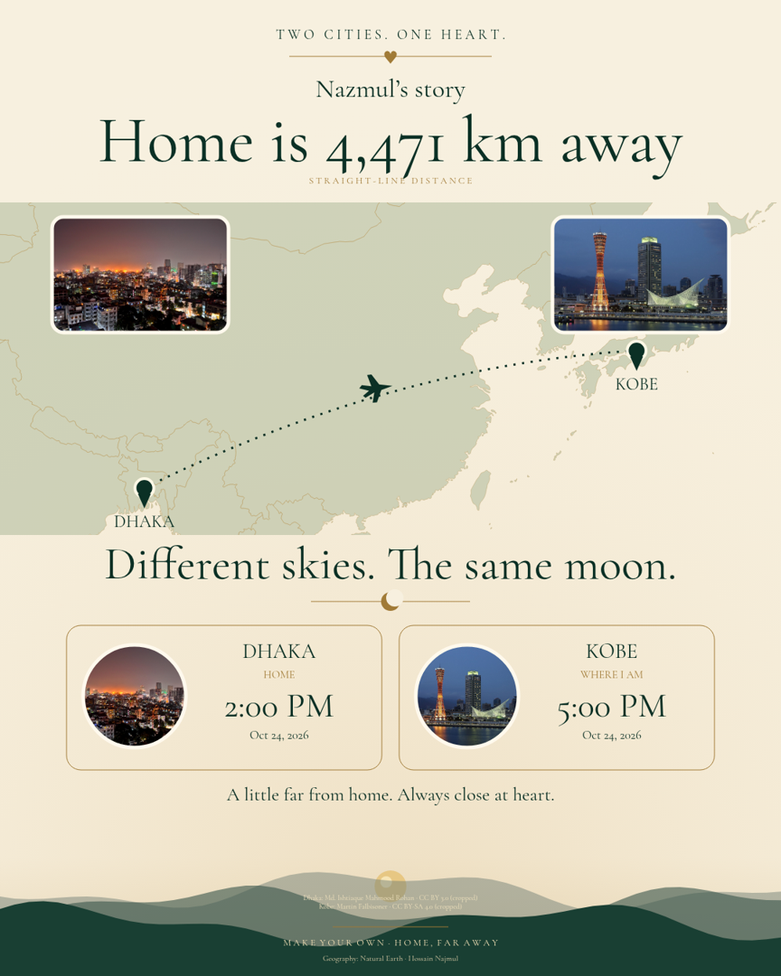
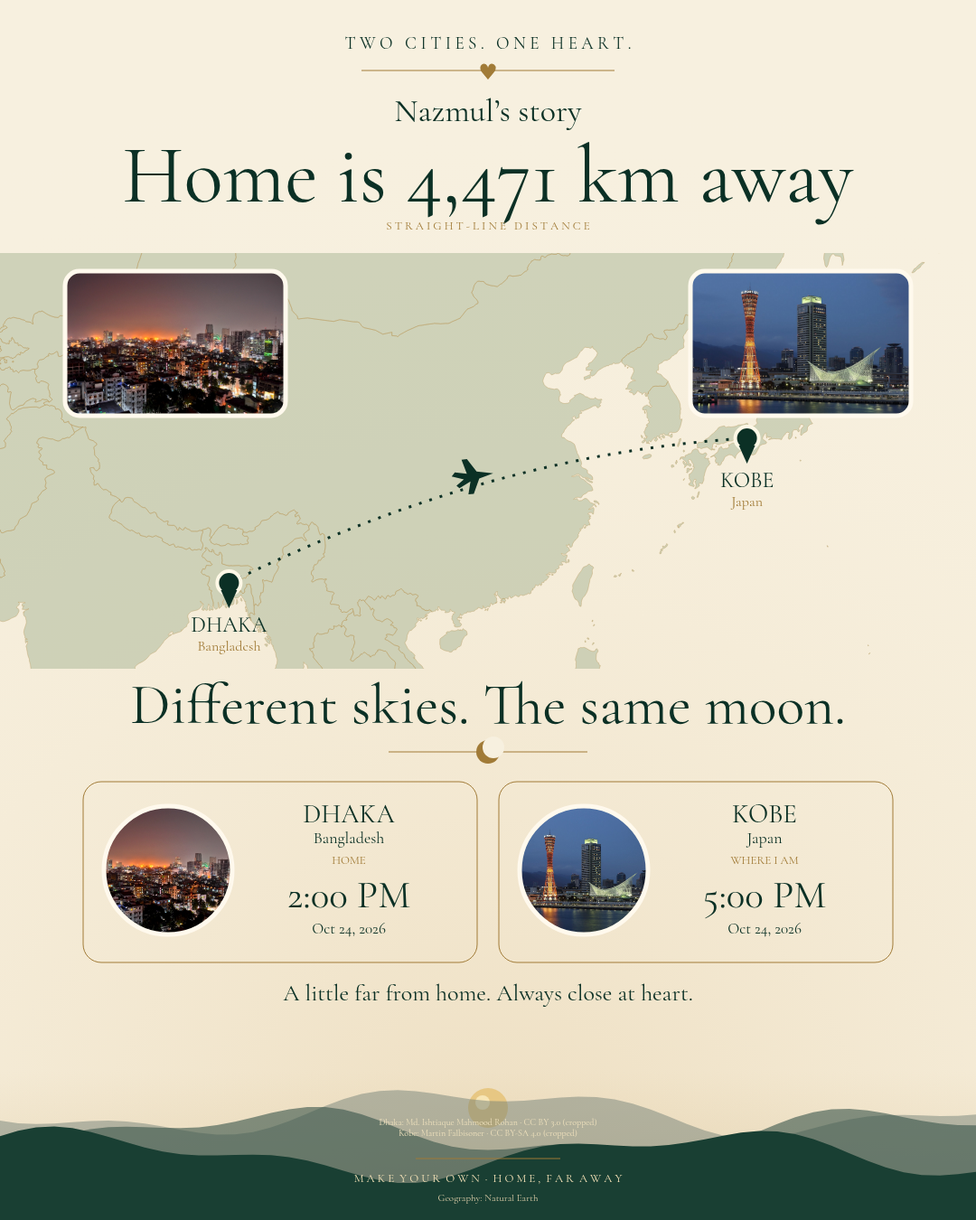
Remove owner branding and simplify default advertising preferences

diff --git a/src/main.tsx b/src/main.tsx
@@ -62,6 +62,6 @@ function App(){const [s,S]=useState<Settings>(restore),[photos,P]=useState<(Phot
  async function exportImage(share=false){B(true);E('');Status('Preparing your keepsake…');try{const out=document.createElement('canvas');await drawPoster(out,s,photos,quality,clock);const blob=await new Promise<Blob>((resolve,reject)=>out.toBlob(b=>b?resolve(b):reject(Error('Image export failed.')), 'image/png'));const url=URL.createObjectURL(blob);U(url);const file=new File([blob],'home-far-away.png',{type:'image/png'});if(share&&navigator.canShare?.({files:[file]})){try{await navigator.share({files:[file],title:'Home, Far Away'});Status('Image shared.');}catch(e){Status((e as DOMException).name==='AbortError'?'Sharing cancelled. Your image is ready below.':'Sharing unavailable. Save the image below.');}}else if(share){Status('Your image is ready below. On iPhone, touch and hold it to save.');}else{const a=document.createElement('a');a.href=url;a.download='home-far-away.png';a.click();Status('PNG ready. If the download did not open, save the image below.');}}catch(e){E((e as Error).message||'Export failed. Please try again.');Status('');}finally{B(false);}}
  async function copyLink(){try{const data={unit:s.unit,format:s.format,theme:s.theme,...(linkLocation?{cities:s.cities}:{})};const url=`${location.origin}${location.pathname}#${new URLSearchParams({route:JSON.stringify(data)})}`;await navigator.clipboard.writeText(url);Status(linkLocation?'Link copied with your two cities. Name, quote and photos excluded.':'Style link copied. Cities, name, quote and photos excluded.');}catch{E('Clipboard unavailable. Use your browser’s address bar to copy the current page.');}}
  function reset(){if(location.hash.includes('route='))history.replaceState(null,'',location.pathname+location.search+'#editor');S(initial);P(defaults.map(curated));U('');E('');Status('Fresh start. Personal uploads cleared; licensed sample photos restored.');try{localStorage.removeItem('hfa-draft');}catch{}}
- return <MotionConfig reducedMotion="user"><header className="nav"><a href="#" className="brand"><span className="brand-icon">✳</span>Home, Far Away</a><span className="nav-note">YOUR WORLD. BEAUTIFULLY CONNECTED.</span><a href="#editor" className="nav-link">Create your story <span>↗</span></a></header><main><section className="hero"><BlurFade duration={.7} offset={10}><p className="eyebrow"><span/> FOR EVERY KIND OF FAR FROM HOME</p><h1 aria-label="Two places. One beautiful story.">Two places.<br/>One <span className="word-window" aria-hidden="true"><FlipWords words={['beautiful story.','little keepsake.','piece of home.']} duration={4000}/></span></h1><p className="hero-copy">The city you carry. The city you’re becoming.<br/>Bring them together in a poster that feels like you.</p><a className="hero-cta" href="#editor">Create my poster <span>↗</span></a><p className="hero-footnote">No account needed <span>·</span> Made for anywhere in the world</p></BlurFade><div className="hero-art" aria-label="Example personalized travel poster"><div className="art-orbit"/><img className="hero-sample" src="./social.png" alt="Example of a personalized ivory travel poster connecting Dhaka and Kobe"/><div className="memory-card"><img src="./assets/kobe.jpg" alt="Kobe harbour by Martin Falbisoner, CC BY-SA 4.0"/><span>Wish you were here.</span></div><div className="art-note">A little distance.<br/><em>A lot of love.</em></div><span className="art-label">YOUR CITIES, TURNED INTO ART</span></div></section><div className="studio-intro"><div><span className="eyebrow">MADE BY YOU, FOR YOU</span><h2>A small story. A whole world.</h2></div><p>Choose your places. Add a little of yourself.<br/>We’ll bring it all together.</p></div><section id="editor" className="editor"><aside className="panel"><div className="panel-title"><p className="eyebrow">THE CREATIVE STUDIO</p><h2>The poster atelier.</h2><p>Your story, one thoughtful detail at a time.</p></div><div className="tabs" role="tablist" aria-label="Poster editor">{['places','story','photos','details'].map((t,i)=><button key={t} id={`tab-${t}`} role="tab" aria-selected={tab===t} aria-controls="editor-content" onClick={()=>Tab(t)} onKeyDown={e=>{const steps=['places','story','photos','details'];let next=i;if(e.key==='ArrowRight')next=(i+1)%steps.length;else if(e.key==='ArrowLeft')next=(i+steps.length-1)%steps.length;else if(e.key==='Home')next=0;else if(e.key==='End')next=steps.length-1;else return;e.preventDefault();Tab(steps[next]);document.getElementById('tab-'+steps[next])?.focus();}}><span className="step-index">{String(i+1).padStart(2,'0')}</span> {t==='details'?'Export':t==='story'?'Personal':t}</button>)}</div><div role="tabpanel" id="editor-content" aria-labelledby={`tab-${tab}`} className="fields scroll-fade-y">{tab==='places'&&<><div className="editor-guide"><span>01 / YOUR TWO PLACES</span><h3>Where does your heart live?</h3><p>Pick any two countries and cities. The preview starts with an example.</p></div><div className="city-pair"><CitySearch label="01 / HOME" city={s.cities[0]} onChange={c=>{change({cities:[c,s.cities[1]]});P(v=>[curated(c),v[1]]);}}/><button className="swap" aria-label="Swap home and current cities" onClick={()=>{change({cities:[s.cities[1],s.cities[0]]});P(v=>[v[1],v[0]]);}}>⇅</button><CitySearch label="02 / WHERE I AM" city={s.cities[1]} onChange={c=>{change({cities:[s.cities[0],c]});P(v=>[v[0],curated(c)]);}}/></div><details className="journey-picker"><summary>Need inspiration? Try a journey ↗</summary><WorldJourneys onSelect={cities=>{change({cities});P(cities.map(curated));}} onError={E}/></details><button className="primary w-full" onClick={()=>Tab('story')}>Make it personal →</button></>}{tab==='story'&&<><div className="editor-guide"><span>02 / A LITTLE OF YOU</span><h3>Put your heart into words.</h3></div><label>Your name<input maxLength={60} value={s.name} onChange={e=>change({name:e.target.value})} placeholder="Your name"/></label><label>A few words from the heart<textarea rows={3} maxLength={200} value={s.quote} onChange={e=>change({quote:e.target.value})}/><span className="counter">{s.quote.length} / 200</span></label><button className="secondary w-full" onClick={()=>Tab('photos')}>Add your memories <span>→</span></button></>}{tab==='photos'&&<><p className="hint">Your photos make it personal. Without photos, we use clearly illustrated place cards.</p>{s.cities.map((c,i)=><Photos key={i} city={c} photo={photos[i]} onChange={p=>P(v=>v.map((old,j)=>j===i?p:old))} onError={E}/>)}<button className="primary w-full" onClick={()=>Tab('details')}>Choose format & export →</button></>}{tab==='details'&&<><label>Poster format<select value={s.format} onChange={e=>change({format:e.target.value as Settings['format']})}><option value="post">Portrait post · 1080 × 1350</option><option value="story">Full story · 1080 × 1920</option></select></label><label>Distance unit<select value={s.unit} onChange={e=>change({unit:e.target.value as Settings['unit']})}><option value="km">Kilometers</option><option value="mi">Miles</option></select></label><label>Paper tone<select value={s.theme} onChange={e=>change({theme:e.target.value as Settings['theme']})}><option value="ivory">Warm ivory</option><option value="sage">Soft sage</option></select></label><label>Export quality<select value={quality} onChange={e=>Q(+e.target.value)}><option value={1}>Original · 1080 px wide</option><option value={2}>High resolution · 2160 px wide</option></select></label><div className="privacy-box"><b>A private little keepsake.</b><p>No login. Uploaded photos stay in your browser and are never published. Settings save on this device; photos clear on reload.</p><p>City searches go to Open-Meteo. Photo searches and selected images use Wikimedia Commons. The map, fonts and time-zone lookup are served locally.</p></div><label className="check"><input type="checkbox" checked={linkLocation} onChange={e=>LL(e.target.checked)}/>Include my two cities in the shared link</label><button className="secondary w-full" onClick={copyLink}>Copy a shareable style link ↗</button><button className="text-button" onClick={reset}>Reset poster & local draft</button></>}</div><div className="panel-footer"><span className="status-dot"/>{storage}</div></aside><div className="preview-area"><div className="route-ribbon"><span>YOUR LIVE COMPOSITION</span><b>{s.cities[0].name} <i>↔</i> {s.cities[1].name}</b></div><div className="preview-top"><span><i/> LIVE PREVIEW</span><div className="format-toggle"><button aria-pressed={s.format==='post'} onClick={()=>change({format:'post'})}>Post</button><button aria-pressed={s.format==='story'} onClick={()=>change({format:'story'})}>Story</button></div></div><div className="poster-frame"><canvas ref={canvas} className="poster" aria-label={`Travel poster connecting ${s.cities[0].name} and ${s.cities[1].name}`}/>{!ready&&!error&&<span className="rendering">Composing your story…</span>}</div><div className="preview-caption"><span>✧ A LITTLE DISTANCE. A LOT OF LOVE.</span><small>{s.format==='post'?'1080 × 1350':'1080 × 1920'} · PNG</small></div><div className="export-bar"><div><b>Ready to take it with you?</b><p>Ready for your phone, your wall, your people.</p></div><div className="export-actions"><button className="secondary" disabled={!ready||busy} onClick={()=>exportImage(true)} aria-label="Save or share image to phone">Share ↗</button><button className="primary" disabled={!ready||busy} onClick={()=>exportImage()}>{busy?'Preparing…':'Download poster ↓'}</button></div></div><div role="status" className="notice">{status}</div>{error&&<div role="alert" className="error">{error}<button onClick={()=>C(new Date())}>Retry</button></div>}{exportUrl&&<details className="export-fallback" open><summary>Your exported image · tap to preview or save</summary><a href={exportUrl} download="home-far-away.png">Download PNG</a><p>iPhone: touch and hold the image, then choose Save to Photos.</p><img src={exportUrl} alt="Your exported personalized travel poster"/></details>}</div></section><div id="advertising-area"/><section className="closing"><span>✧</span><p>Some places become part of you.<br/><em>Take them with you.</em></p></section></main><footer><a className="brand" href="#">Home, Far Away</a><span>Made with heart, by Hossain Najmul.<br/><a href="./privacy.html">Privacy notice</a> · <AdPreferences/></span><details><summary>Sources, credits & privacy</summary><p>Scroll fade adapted from <a href="https://skiper-ui.com/v1/skiper87" target="_blank" rel="noreferrer">Skiper UI</a>. Word animation by <a href="https://ui.aceternity.com/components/flip-words" target="_blank" rel="noreferrer">Aceternity UI</a>.</p><p>City data: Open-Meteo / GeoNames (CC BY 4.0). Geography: Natural Earth public domain. Fonts: Cormorant Garamond and Noto Serif Bengali (SIL OFL). Wikimedia photos retain their individual licenses and credits, shown in the photo editor. Optional Google AdSense may load after you allow ads. Manage this using Ad privacy choices.</p><p>Local times use IANA zones. Distance is the great-circle distance between selected coordinates. A shared link excludes names, quotes and photos. Cities are included only with your explicit checkbox.</p></details></footer></MotionConfig>;
+ return <MotionConfig reducedMotion="user"><header className="nav"><a href="#" className="brand"><span className="brand-icon">✳</span>Home, Far Away</a><span className="nav-note">YOUR WORLD. BEAUTIFULLY CONNECTED.</span><a href="#editor" className="nav-link">Create your story <span>↗</span></a></header><main><section className="hero"><BlurFade duration={.7} offset={10}><p className="eyebrow"><span/> FOR EVERY KIND OF FAR FROM HOME</p><h1 aria-label="Two places. One beautiful story.">Two places.<br/>One <span className="word-window" aria-hidden="true"><FlipWords words={['beautiful story.','little keepsake.','piece of home.']} duration={4000}/></span></h1><p className="hero-copy">The city you carry. The city you’re becoming.<br/>Bring them together in a poster that feels like you.</p><a className="hero-cta" href="#editor">Create my poster <span>↗</span></a><p className="hero-footnote">No account needed <span>·</span> Made for anywhere in the world</p></BlurFade><div className="hero-art" aria-label="Example personalized travel poster"><div className="art-orbit"/><img className="hero-sample" src="./social.png" alt="Example of a personalized ivory travel poster connecting Dhaka and Kobe"/><div className="memory-card"><img src="./assets/kobe.jpg" alt="Kobe harbour by Martin Falbisoner, CC BY-SA 4.0"/><span>Wish you were here.</span></div><div className="art-note">A little distance.<br/><em>A lot of love.</em></div><span className="art-label">YOUR CITIES, TURNED INTO ART</span></div></section><div className="studio-intro"><div><span className="eyebrow">MADE BY YOU, FOR YOU</span><h2>A small story. A whole world.</h2></div><p>Choose your places. Add a little of yourself.<br/>We’ll bring it all together.</p></div><section id="editor" className="editor"><aside className="panel"><div className="panel-title"><p className="eyebrow">THE CREATIVE STUDIO</p><h2>The poster atelier.</h2><p>Your story, one thoughtful detail at a time.</p></div><div className="tabs" role="tablist" aria-label="Poster editor">{['places','story','photos','details'].map((t,i)=><button key={t} id={`tab-${t}`} role="tab" aria-selected={tab===t} aria-controls="editor-content" onClick={()=>Tab(t)} onKeyDown={e=>{const steps=['places','story','photos','details'];let next=i;if(e.key==='ArrowRight')next=(i+1)%steps.length;else if(e.key==='ArrowLeft')next=(i+steps.length-1)%steps.length;else if(e.key==='Home')next=0;else if(e.key==='End')next=steps.length-1;else return;e.preventDefault();Tab(steps[next]);document.getElementById('tab-'+steps[next])?.focus();}}><span className="step-index">{String(i+1).padStart(2,'0')}</span> {t==='details'?'Export':t==='story'?'Personal':t}</button>)}</div><div role="tabpanel" id="editor-content" aria-labelledby={`tab-${tab}`} className="fields scroll-fade-y">{tab==='places'&&<><div className="editor-guide"><span>01 / YOUR TWO PLACES</span><h3>Where does your heart live?</h3><p>Pick any two countries and cities. The preview starts with an example.</p></div><div className="city-pair"><CitySearch label="01 / HOME" city={s.cities[0]} onChange={c=>{change({cities:[c,s.cities[1]]});P(v=>[curated(c),v[1]]);}}/><button className="swap" aria-label="Swap home and current cities" onClick={()=>{change({cities:[s.cities[1],s.cities[0]]});P(v=>[v[1],v[0]]);}}>⇅</button><CitySearch label="02 / WHERE I AM" city={s.cities[1]} onChange={c=>{change({cities:[s.cities[0],c]});P(v=>[v[0],curated(c)]);}}/></div><details className="journey-picker"><summary>Need inspiration? Try a journey ↗</summary><WorldJourneys onSelect={cities=>{change({cities});P(cities.map(curated));}} onError={E}/></details><button className="primary w-full" onClick={()=>Tab('story')}>Make it personal →</button></>}{tab==='story'&&<><div className="editor-guide"><span>02 / A LITTLE OF YOU</span><h3>Put your heart into words.</h3></div><label>Your name<input maxLength={60} value={s.name} onChange={e=>change({name:e.target.value})} placeholder="Your name"/></label><label>A few words from the heart<textarea rows={3} maxLength={200} value={s.quote} onChange={e=>change({quote:e.target.value})}/><span className="counter">{s.quote.length} / 200</span></label><button className="secondary w-full" onClick={()=>Tab('photos')}>Add your memories <span>→</span></button></>}{tab==='photos'&&<><p className="hint">Your photos make it personal. Without photos, we use clearly illustrated place cards.</p>{s.cities.map((c,i)=><Photos key={i} city={c} photo={photos[i]} onChange={p=>P(v=>v.map((old,j)=>j===i?p:old))} onError={E}/>)}<button className="primary w-full" onClick={()=>Tab('details')}>Choose format & export →</button></>}{tab==='details'&&<><label>Poster format<select value={s.format} onChange={e=>change({format:e.target.value as Settings['format']})}><option value="post">Portrait post · 1080 × 1350</option><option value="story">Full story · 1080 × 1920</option></select></label><label>Distance unit<select value={s.unit} onChange={e=>change({unit:e.target.value as Settings['unit']})}><option value="km">Kilometers</option><option value="mi">Miles</option></select></label><label>Paper tone<select value={s.theme} onChange={e=>change({theme:e.target.value as Settings['theme']})}><option value="ivory">Warm ivory</option><option value="sage">Soft sage</option></select></label><label>Export quality<select value={quality} onChange={e=>Q(+e.target.value)}><option value={1}>Original · 1080 px wide</option><option value={2}>High resolution · 2160 px wide</option></select></label><div className="privacy-box"><b>A private little keepsake.</b><p>No login. Uploaded photos stay in your browser and are never published. Settings save on this device; photos clear on reload.</p><p>City searches go to Open-Meteo. Photo searches and selected images use Wikimedia Commons. The map, fonts and time-zone lookup are served locally.</p></div><label className="check"><input type="checkbox" checked={linkLocation} onChange={e=>LL(e.target.checked)}/>Include my two cities in the shared link</label><button className="secondary w-full" onClick={copyLink}>Copy a shareable style link ↗</button><button className="text-button" onClick={reset}>Reset poster & local draft</button></>}</div><div className="panel-footer"><span className="status-dot"/>{storage}</div></aside><div className="preview-area"><div className="route-ribbon"><span>YOUR LIVE COMPOSITION</span><b>{s.cities[0].name} <i>↔</i> {s.cities[1].name}</b></div><div className="preview-top"><span><i/> LIVE PREVIEW</span><div className="format-toggle"><button aria-pressed={s.format==='post'} onClick={()=>change({format:'post'})}>Post</button><button aria-pressed={s.format==='story'} onClick={()=>change({format:'story'})}>Story</button></div></div><div className="poster-frame"><canvas ref={canvas} className="poster" aria-label={`Travel poster connecting ${s.cities[0].name} and ${s.cities[1].name}`}/>{!ready&&!error&&<span className="rendering">Composing your story…</span>}</div><div className="preview-caption"><span>✧ A LITTLE DISTANCE. A LOT OF LOVE.</span><small>{s.format==='post'?'1080 × 1350':'1080 × 1920'} · PNG</small></div><div className="export-bar"><div><b>Ready to take it with you?</b><p>Ready for your phone, your wall, your people.</p></div><div className="export-actions"><button className="secondary" disabled={!ready||busy} onClick={()=>exportImage(true)} aria-label="Save or share image to phone">Share ↗</button><button className="primary" disabled={!ready||busy} onClick={()=>exportImage()}>{busy?'Preparing…':'Download poster ↓'}</button></div></div><div role="status" className="notice">{status}</div>{error&&<div role="alert" className="error">{error}<button onClick={()=>C(new Date())}>Retry</button></div>}{exportUrl&&<details className="export-fallback" open><summary>Your exported image · tap to preview or save</summary><a href={exportUrl} download="home-far-away.png">Download PNG</a><p>iPhone: touch and hold the image, then choose Save to Photos.</p><img src={exportUrl} alt="Your exported personalized travel poster"/></details>}</div></section><div id="advertising-area"/><section className="closing"><span>✧</span><p>Some places become part of you.<br/><em>Take them with you.</em></p></section></main><footer><a className="brand" href="#">Home, Far Away</a><span>Made for the places you love.<br/><a href="./privacy.html">Privacy notice</a> · <AdPreferences/></span><details><summary>Sources, credits & privacy</summary><p>Scroll fade adapted from <a href="https://skiper-ui.com/v1/skiper87" target="_blank" rel="noreferrer">Skiper UI</a>. Word animation by <a href="https://ui.aceternity.com/components/flip-words" target="_blank" rel="noreferrer">Aceternity UI</a>.</p><p>City data: Open-Meteo / GeoNames (CC BY 4.0). Geography: Natural Earth public domain. Fonts: Cormorant Garamond and Noto Serif Bengali (SIL OFL). Wikimedia photos retain their individual licenses and credits, shown in the photo editor. Google AdSense supports this studio. Manage your preference using Ad privacy choices.</p><p>Local times use IANA zones. Distance is the great-circle distance between selected coordinates. A shared link excludes names, quotes and photos. Cities are included only with your explicit checkbox.</p></details></footer></MotionConfig>;
 }
 createRoot(document.getElementById('root')!).render(<App/>);

diff --git a/public/privacy.html b/public/privacy.html
@@ -1,1 +1,1 @@
-<!doctype html><html lang="en"><head><meta charset="utf-8"><meta name="viewport" content="width=device-width, initial-scale=1"><meta name="robots" content="index,follow"><title>Privacy — Home, Far Away</title><style>body{font:16px/1.9 system-ui,sans-serif;max-width:760px;padding:50px 24px;margin:auto;background:#f4f1e9;color:#344b38}h1,h2{line-height:1.2;color:#2f5a42}h2{font-size:23px;margin-top:38px}a{color:#ae6b49}small{color:#879579}</style></head><body><a href="./">← Back to the poster studio</a><h1>Your memories, your choices.</h1><small>Home, Far Away · Hossain Najmul · Updated 24 October 2026</small><p>This notice explains the data used by our browser-based travel poster studio.</p><h2>Posters and uploads</h2><p>Names, quotes and selected places are processed in your browser. Uploaded photos are resized and cropped locally; this app does not upload them to a server. Draft settings are stored using localStorage; uploaded photos are not included in saved drafts. Clear a draft with Reset poster &amp; local draft. Share links exclude names, quotes and uploaded photos. City locations are included only when you enable the city-sharing option.</p><h2>City search and public photographs</h2><p>City searches are sent to Open-Meteo and use GeoNames data. Searching for photographs sends the selected city or map-pin coordinates to Wikimedia Commons. Selecting an external image downloads it from Wikimedia. These providers receive ordinary request information, such as your IP address. The geographic map, fonts and time-zone lookup are hosted with the site.</p><h2>Optional Google advertising</h2><p>Google AdSense is integrated using publisher ca-pub-3728341118830943. Advertising code is loaded only if you choose Allow ads. You may use the core poster tools without allowing advertising. Google and its partners may use cookies or similar identifiers and process device, IP and interaction data to serve, prevent fraud and measure advertising. We request non-personalized advertising; regional eligibility and consent requirements still apply. Google may show its own consent message. Serving ads also depends on Google approving the site.</p><p>Google explains its processing at <a href="https://policies.google.com/technologies/partner-sites">How Google uses information from sites or apps that use its services</a> and its <a href="https://policies.google.com/privacy">Privacy Policy</a>. You can change your advertising preference with Ad privacy choices in our footer. Turning advertising off reloads the page to stop loading its code; this does not erase cookies already stored by another provider. Use your browser settings to remove existing cookies.</p><h2>Local storage and hosting</h2><p>This app uses localStorage for poster drafts and the optional advertising choice. GitHub Pages provides hosting and may process request logs under <a href="https://docs.github.com/en/site-policy/privacy-policies/github-general-privacy-statement">GitHub's privacy statement</a>. We do not operate a login, analytics service or database for uploaded memories.</p><h2>Questions</h2><p>For questions about this site, contact the owner through <a href="https://github.com/Mr04Nazmul/Travel/issues">the project's GitHub issue tracker</a>. Do not post private photos or sensitive information in a public issue.</p></body></html>
+<!doctype html><html lang="en"><head><meta charset="utf-8"><meta name="viewport" content="width=device-width, initial-scale=1"><meta name="robots" content="index,follow"><title>Privacy — Home, Far Away</title><style>body{font:16px/1.9 system-ui,sans-serif;max-width:760px;padding:50px 24px;margin:auto;background:#f4f1e9;color:#344b38}h1,h2{line-height:1.2;color:#2f5a42}h2{font-size:23px;margin-top:38px}a{color:#ae6b49}small{color:#879579}</style></head><body><a href="./">← Back to the poster studio</a><h1>Your memories, your choices.</h1><small>Home, Far Away · Updated 24 October 2026</small><p>This notice explains the data used by our browser-based travel poster studio.</p><h2>Posters and uploads</h2><p>Names, quotes and selected places are processed in your browser. Uploaded photos are resized and cropped locally; this app does not upload them to a server. Draft settings are stored using localStorage; uploaded photos are not included in saved drafts. Clear a draft with Reset poster &amp; local draft. Share links exclude names, quotes and uploaded photos. City locations are included only when you enable the city-sharing option.</p><h2>City search and public photographs</h2><p>City searches are sent to Open-Meteo and use GeoNames data. Searching for photographs sends the selected city or map-pin coordinates to Wikimedia Commons. Selecting an external image downloads it from Wikimedia. These providers receive ordinary request information, such as your IP address. The geographic map, fonts and time-zone lookup are hosted with the site.</p><h2>Optional Google advertising</h2><p>Google AdSense is integrated using publisher ca-pub-3728341118830943. Advertising is enabled by default to support the studio. The app does not show an initial advertising-choice popup. You can turn ads off through Ad privacy choices in the footer; any previously saved opt-out is respected, and a Global Privacy Control signal defaults to ads off. Google and its partners may use cookies or similar identifiers and process device, IP and interaction data to serve, prevent fraud and measure advertising. We request non-personalized advertising; regional eligibility and consent requirements still apply. Google may show its own consent message. Serving ads also depends on Google approving the site.</p><p>Google explains its processing at <a href="https://policies.google.com/technologies/partner-sites">How Google uses information from sites or apps that use its services</a> and its <a href="https://policies.google.com/privacy">Privacy Policy</a>. You can change your advertising preference with Ad privacy choices in our footer. Turning advertising off reloads the page to stop loading its code; this does not erase cookies already stored by another provider. Use your browser settings to remove existing cookies.</p><h2>Local storage and hosting</h2><p>This app uses localStorage for poster drafts and your advertising preference. GitHub Pages provides hosting and may process request logs under <a href="https://docs.github.com/en/site-policy/privacy-policies/github-general-privacy-statement">GitHub's privacy statement</a>. We do not operate a login, analytics service or database for uploaded memories.</p><h2>Questions</h2><p>For questions about this site, contact the owner through <a href="https://github.com/Mr04Nazmul/Travel/issues">the project's GitHub issue tracker</a>. Do not post private photos or sensitive information in a public issue.</p></body></html>

diff --git a/src/AdPreferences.tsx b/src/AdPreferences.tsx
@@ -2,9 +2,9 @@ import {useEffect,useState} from 'react';
 import {createPortal} from 'react-dom';
 const CLIENT='ca-pub-3728341118830943';
 type Choice='allow'|'deny'|null;
-function saved():Choice{try{const v=localStorage.getItem('hfa-ad-choice');return v==='allow'||v==='deny'?v:null;}catch{return null;}}
+function saved():Choice{try{const v=localStorage.getItem('hfa-ad-choice');if(v==='allow'||v==='deny')return v;}catch{}return (navigator as Navigator & {globalPrivacyControl?:boolean}).globalPrivacyControl?'deny':'allow';}
 export function AdPreferences(){
- const [choice,Choice]=useState<Choice>(saved),[open,Open]=useState(()=>!saved()),[unavailable,Unavailable]=useState(false);
+ const [choice,Choice]=useState<Choice>(saved),[open,Open]=useState(false),[unavailable,Unavailable]=useState(false);
  const [mount,Mount]=useState<HTMLElement|null>(null);
  useEffect(()=>Mount(document.getElementById('advertising-area')),[]);
  useEffect(()=>{
@@ -18,5 +18,5 @@ export function AdPreferences(){
   const script=document.createElement('script');script.async=true;script.crossOrigin='anonymous';script.dataset.hfaAds='true';script.src=`https://pagead2.googlesyndication.com/pagead/js/adsbygoogle.js?client=${CLIENT}`;script.onload=request;script.onerror=()=>Unavailable(true);document.head.appendChild(script);
  },[choice,mount]);
  function choose(value:'allow'|'deny'){try{localStorage.setItem('hfa-ad-choice',value);}catch{}const revoke=choice==='allow'&&value==='deny';Choice(value);Open(false);if(revoke)location.reload();}
- return <>{choice==='allow'&&mount&&!unavailable&&createPortal(<aside className="advertising-slot" aria-label="Advertisement"><small>Advertisement</small><ins className="adsbygoogle" style={{display:'block'}} data-hfa-unit="true" data-ad-client={CLIENT} data-ad-slot="1630336858" data-ad-format="auto" data-full-width-responsive="true"/></aside>,mount)}<button className="privacy-link" onClick={()=>Open(true)}>Ad privacy choices</button>{open&&<section className="ad-preferences" aria-label="Advertising privacy choices"><b>A choice about optional ads</b><p>Google may use cookies and process device and network information to serve and measure ads. Our app does not upload your photos to Google.</p><p>You can create and download your poster with ads turned off. <a href="./privacy.html">Read our privacy notice ↗</a></p><div className="two"><button className="secondary" onClick={()=>choose('deny')}>Continue without ads</button><button className="primary" onClick={()=>choose('allow')}>Allow ads</button></div>{unavailable&&<p>Advertising is unavailable. Your poster tools still work.</p>}</section>}</>;
+ return <>{choice==='allow'&&mount&&!unavailable&&createPortal(<aside className="advertising-slot" aria-label="Advertisement"><small>Advertisement</small><ins className="adsbygoogle" style={{display:'block'}} data-hfa-unit="true" data-ad-client={CLIENT} data-ad-slot="1630336858" data-ad-format="auto" data-full-width-responsive="true"/></aside>,mount)}<button className="privacy-link" onClick={()=>Open(true)}>Ad privacy choices</button>{open&&<section className="ad-preferences" aria-label="Advertising privacy choices"><b>Advertising privacy</b><p>Google may use cookies and process device and network information to serve and measure ads. Our app does not upload your photos to Google.</p><p>Ads help support this studio. Your preference is remembered on this device. <a href="./privacy.html">Read our privacy notice ↗</a></p><p>Current preference: <strong>{choice==='allow'?'Ads enabled':'Ads disabled'}</strong></p><button className="text-button" onClick={()=>Open(false)}>Close</button><div className="two"><button className="secondary" onClick={()=>choose('deny')}>Turn ads off</button><button className="primary" onClick={()=>choose('allow')}>Keep ads on</button></div>{unavailable&&<p>Advertising is unavailable. Your poster tools still work.</p>}</section>}</>;
 }

diff --git a/index.html b/index.html
@@ -1,1 +1,1 @@
-<!doctype html><html lang="en"><head><meta charset="UTF-8"/><meta name="viewport" content="width=device-width, initial-scale=1.0"/><meta name="theme-color" content="#0d1020"/><meta name="google-adsense-account" content="ca-pub-3728341118830943"/><meta name="description" content="Two cities. One heart. Create a personal travel poster with accurate geography, local times and your own memories. By Hossain Najmul."/><meta property="og:title" content="Home, Far Away — Two cities. One heart."/><meta property="og:description" content="Turn the distance between your cities into something worth keeping."/><meta property="og:type" content="website"/><meta property="og:url" content="https://devnazu.online/"/><link rel="canonical" href="https://devnazu.online/"/><meta property="og:image" content="https://devnazu.online/social.png"/><link rel="icon" type="image/svg+xml" href="./favicon.svg"/><title>Home, Far Away — Your story, across the world</title></head><body><div id="root"></div><script type="module" src="/src/main.tsx"></script></body></html>
+<!doctype html><html lang="en"><head><meta charset="UTF-8"/><meta name="viewport" content="width=device-width, initial-scale=1.0"/><meta name="theme-color" content="#f4f1e9"/><meta name="google-adsense-account" content="ca-pub-3728341118830943"/><meta name="description" content="Two cities. One heart. Create a personal travel poster with accurate geography, local times and your own memories."/><meta property="og:title" content="Home, Far Away — Two cities. One heart."/><meta property="og:description" content="Turn the distance between your cities into something worth keeping."/><meta property="og:type" content="website"/><meta property="og:url" content="https://devnazu.online/"/><link rel="canonical" href="https://devnazu.online/"/><meta property="og:image" content="https://devnazu.online/social.png"/><link rel="icon" type="image/svg+xml" href="./favicon.svg"/><title>Home, Far Away — Your story, across the world</title></head><body><div id="root"></div><script type="module" src="/src/main.tsx"></script></body></html>

diff --git a/src/poster.ts b/src/poster.ts
@@ -37,6 +37,6 @@ export async function drawPoster(canvas:HTMLCanvasElement,s:Settings,photos:(Pho
  const sky=c.createLinearGradient(0,horizon-45,0,H);sky.addColorStop(0,'#d7bd8b00');sky.addColorStop(1,'#c0a77755');c.fillStyle=sky;c.fillRect(0,horizon-45,1080,H-horizon+45);
  c.fillStyle='#e7c783';c.beginPath();c.arc(540,horizon-4,22,0,Math.PI*2);c.fill();c.fillStyle='#fff5ceaa';c.beginPath();c.arc(534,horizon-10,8,0,Math.PI*2);c.fill();
  for(let layer=0;layer<3;layer++){c.beginPath();c.moveTo(0,H);for(let x=0;x<=1080;x+=20){const y=horizon+layer*24+Math.sin(x*.009+layer*2)*22+Math.cos(x*.023+layer)*10;c.lineTo(x,y);}c.lineTo(1080,H);c.closePath();c.fillStyle=['#6e7d7477','#37544a99','#193f33'][layer];c.fill();}
- const foot=H-42;line(foot-26,160);text('M A K E  Y O U R  O W N  ·  H O M E ,  F A R  A W A Y',540,foot,13,'#f0dfb5');text('Geography: Natural Earth · Hossain Najmul',540,foot+21,11,'#dacba6');
+ const foot=H-42;line(foot-26,160);text('M A K E  Y O U R  O W N  ·  H O M E ,  F A R  A W A Y',540,foot,13,'#f0dfb5');text('Geography: Natural Earth',540,foot+21,11,'#dacba6');
  photos.forEach((p,i)=>{if(p?.source)text(`${s.cities[i].name}: ${p.credit}`,540,H-105+i*12,10,'#eee0bc','Poster',950);});
 }

diff --git a/README.md b/README.md
@@ -35,7 +35,7 @@ The supplied reference is a design target, not a flattened background. A real ge
 
 ## Advertising integration
 
-Google AdSense publisher `ca-pub-3728341118830943` and responsive footer unit `1630336858` were obtained from the connected owner account. The site includes publisher verification metadata and `public/ads.txt`. Optional advertising code loads only after Allow ads; Continue without ads leaves the poster editor fully usable. The app requests non-personalized advertising. A plain local opt-in is not a Google-certified CMP; configure Google's regional privacy messaging before serving personalized ads. Site registration, ownership verification, Google review, and DNS/custom-domain configuration remain separate account operations. The uploaded poster composition never includes ads. See `public/privacy.html` for the updated disclosure.
+Google AdSense publisher `ca-pub-3728341118830943` and responsive footer unit `1630336858` were obtained from the connected owner account. The site includes publisher verification metadata and `public/ads.txt`. Advertising is enabled by default without an initial app popup. Previously saved opt-outs and Global Privacy Control are respected. The footer retains privacy controls. The app requests non-personalized advertising. Local preferences are not a Google-certified CMP; regional consent must be handled through Google's privacy messaging. Site registration, ownership verification, Google review, and DNS/custom-domain configuration remain separate account operations. The uploaded poster composition never includes ads. See `public/privacy.html` for the updated disclosure.
 
 ## Atelier UI
 
